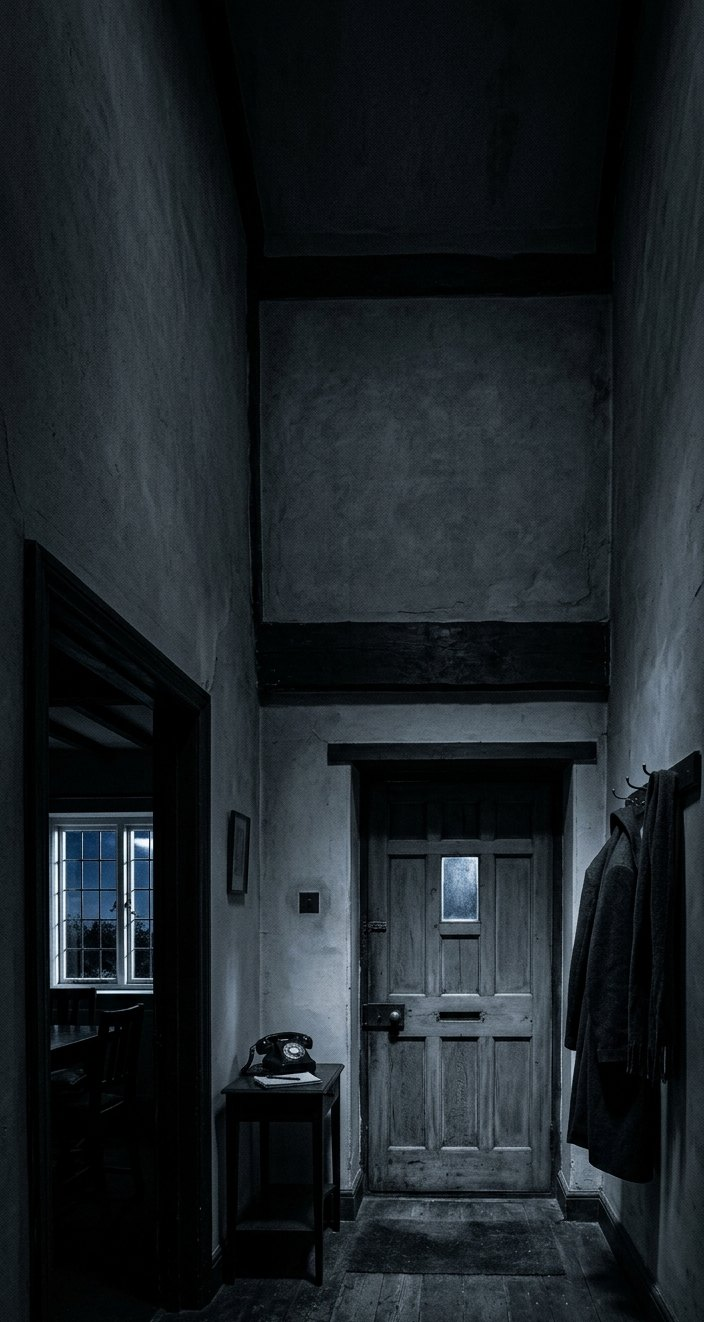
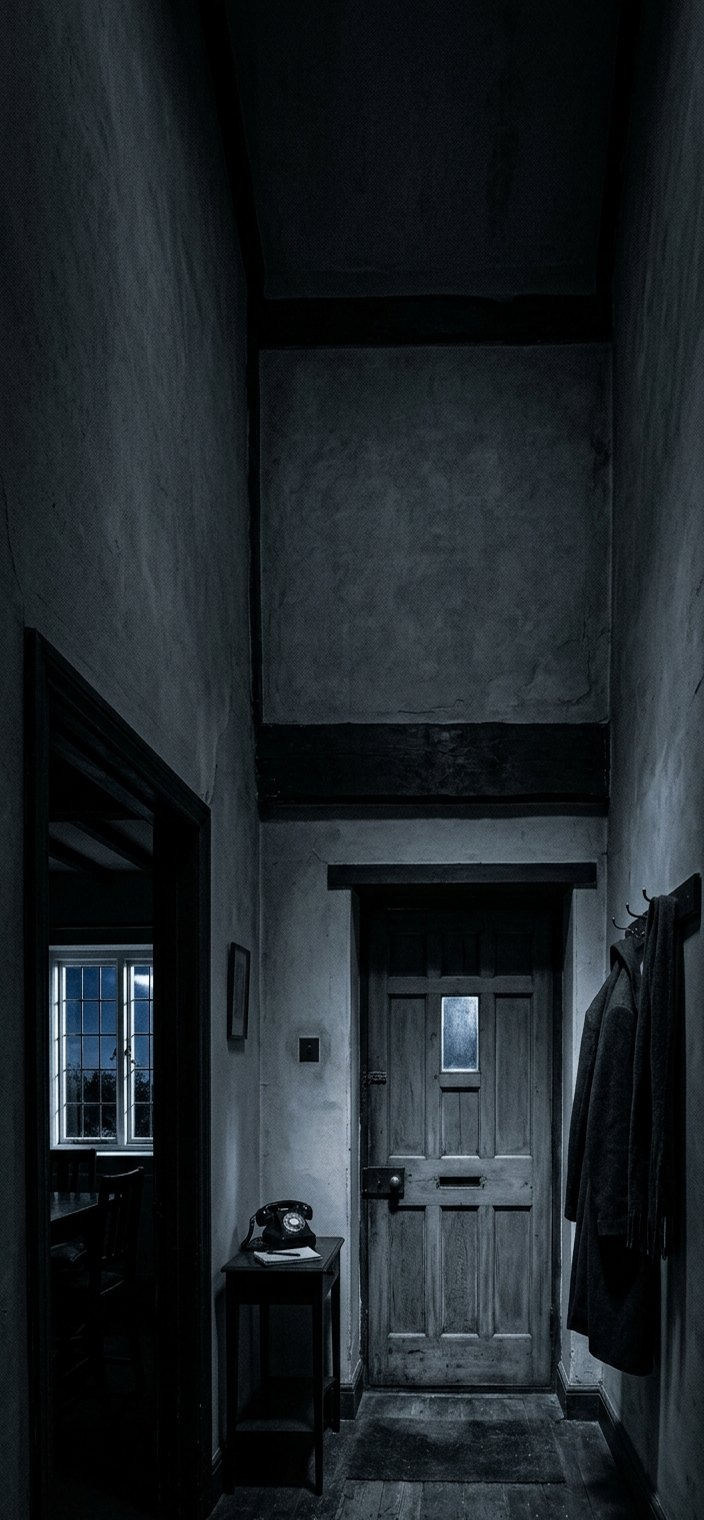
Preserve backdrop aspect ratio (fix fit); fade from bottom edge to mid-screen
- Watermark crop was changing backdrop aspect ratio, making cover-crop zoom
  the composition. Now crop the strip then resize back to original dims so the
  ratio (and full-bleed fit) is preserved.
- Reveal fade now starts as a line/block enters from the bottom edge and is
  fully lit by mid-screen (was lower-middle to upper-middle).

diff --git a/src/engine/ChapterView.tsx b/src/engine/ChapterView.tsx
@@ -203,13 +203,10 @@ function BlockReveal({
     if (exempt) return 1 as unknown as Animated.AnimatedInterpolation<number>;
     if (top == null || viewH === 0)
       return 0 as unknown as Animated.AnimatedInterpolation<number>;
-    // Reveal LATE (device feedback: it came in too early / as soon as you
-    // scrolled). A block stays fully invisible until its top has climbed to
-    // ~60% down the screen, and only reaches full opacity at ~38% down — so
-    // the reader must scroll it up into the middle reading band before it
-    // resolves. Fades back out symmetrically on scroll-up. (Tunable knob.)
+    // Fade begins as the block enters from the bottom edge and is fully lit by
+    // the middle of the screen (matches the per-line prose reveal).
     return scrollY.interpolate({
-      inputRange: [top - viewH * 0.6, top - viewH * 0.38],
+      inputRange: [top - viewH, top - viewH * 0.5],
       outputRange: [0, 1],
       extrapolate: 'clamp',
     });

diff --git a/src/engine/ProseReveal.tsx b/src/engine/ProseReveal.tsx
@@ -64,8 +64,10 @@ export function ProseReveal({
       {measured ? (
         measured.lines.map((ln, i) => {
           const absTop = measured.top + ln.y;
+          // Fade begins as the line enters from the bottom edge and is fully
+          // lit by the middle of the screen.
           const opacity = scrollY.interpolate({
-            inputRange: [absTop - viewH * 0.6, absTop - viewH * 0.38],
+            inputRange: [absTop - viewH, absTop - viewH * 0.5],
             outputRange: [0, 1],
             extrapolate: 'clamp',
           });
